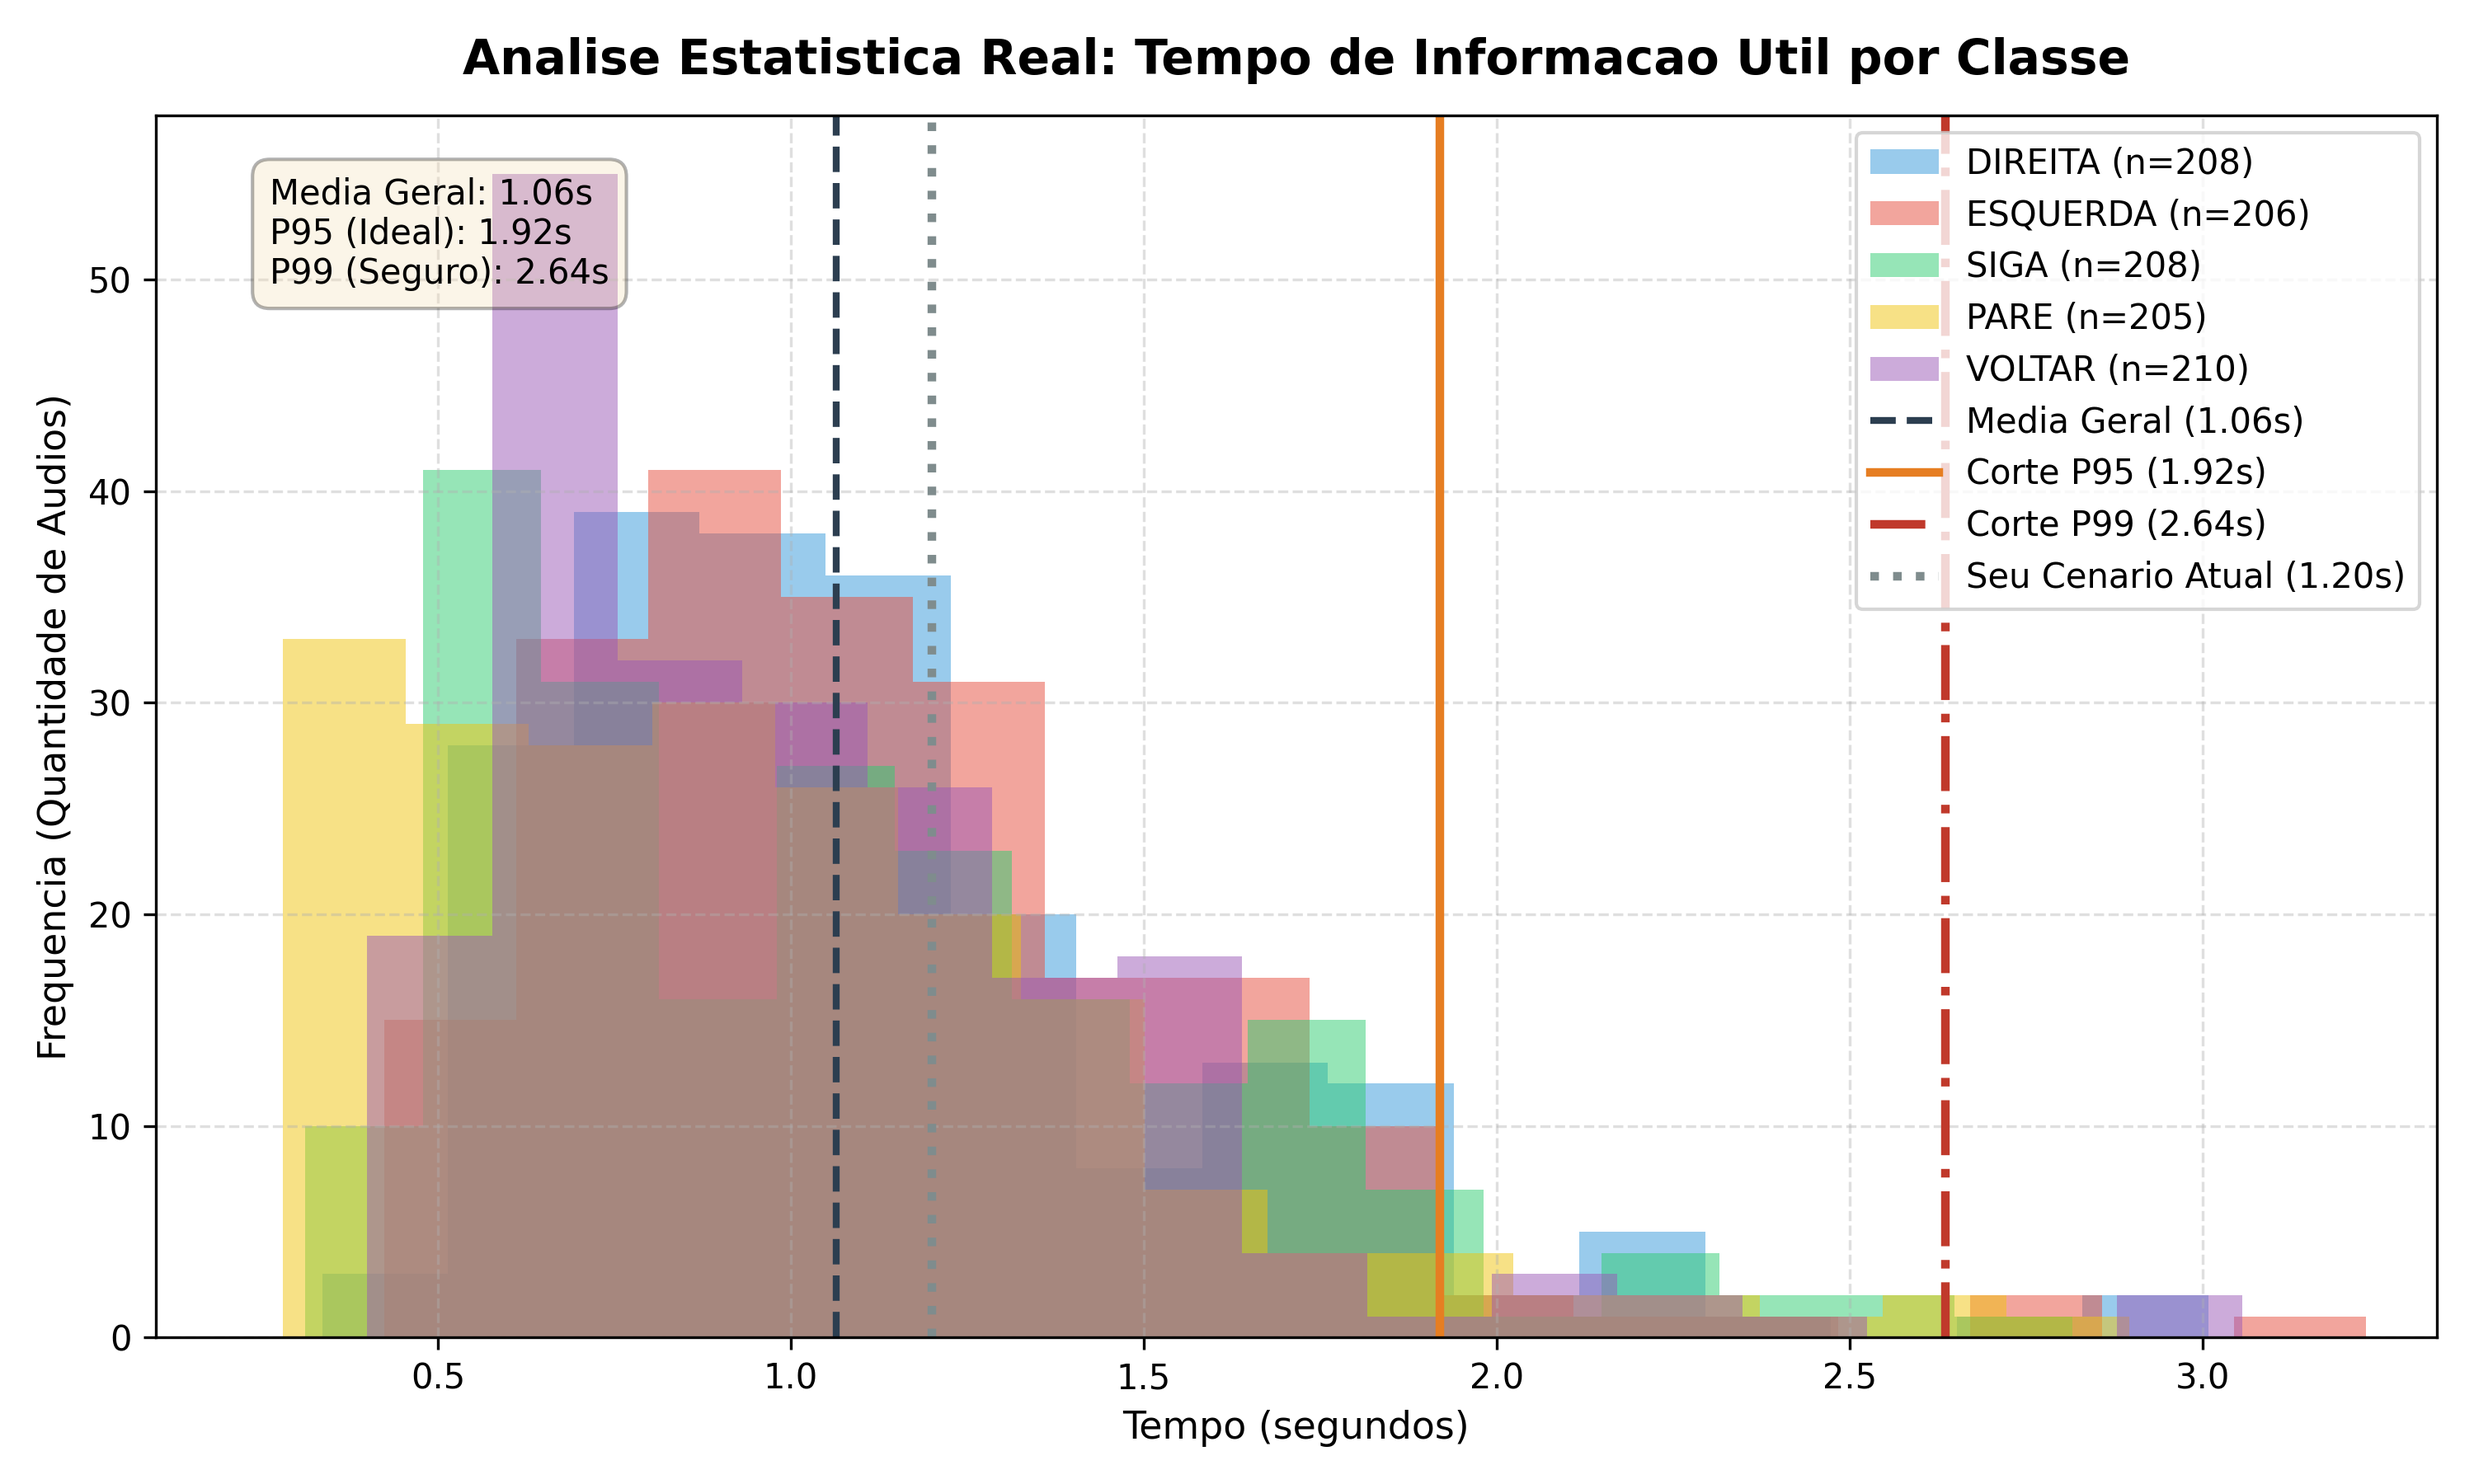
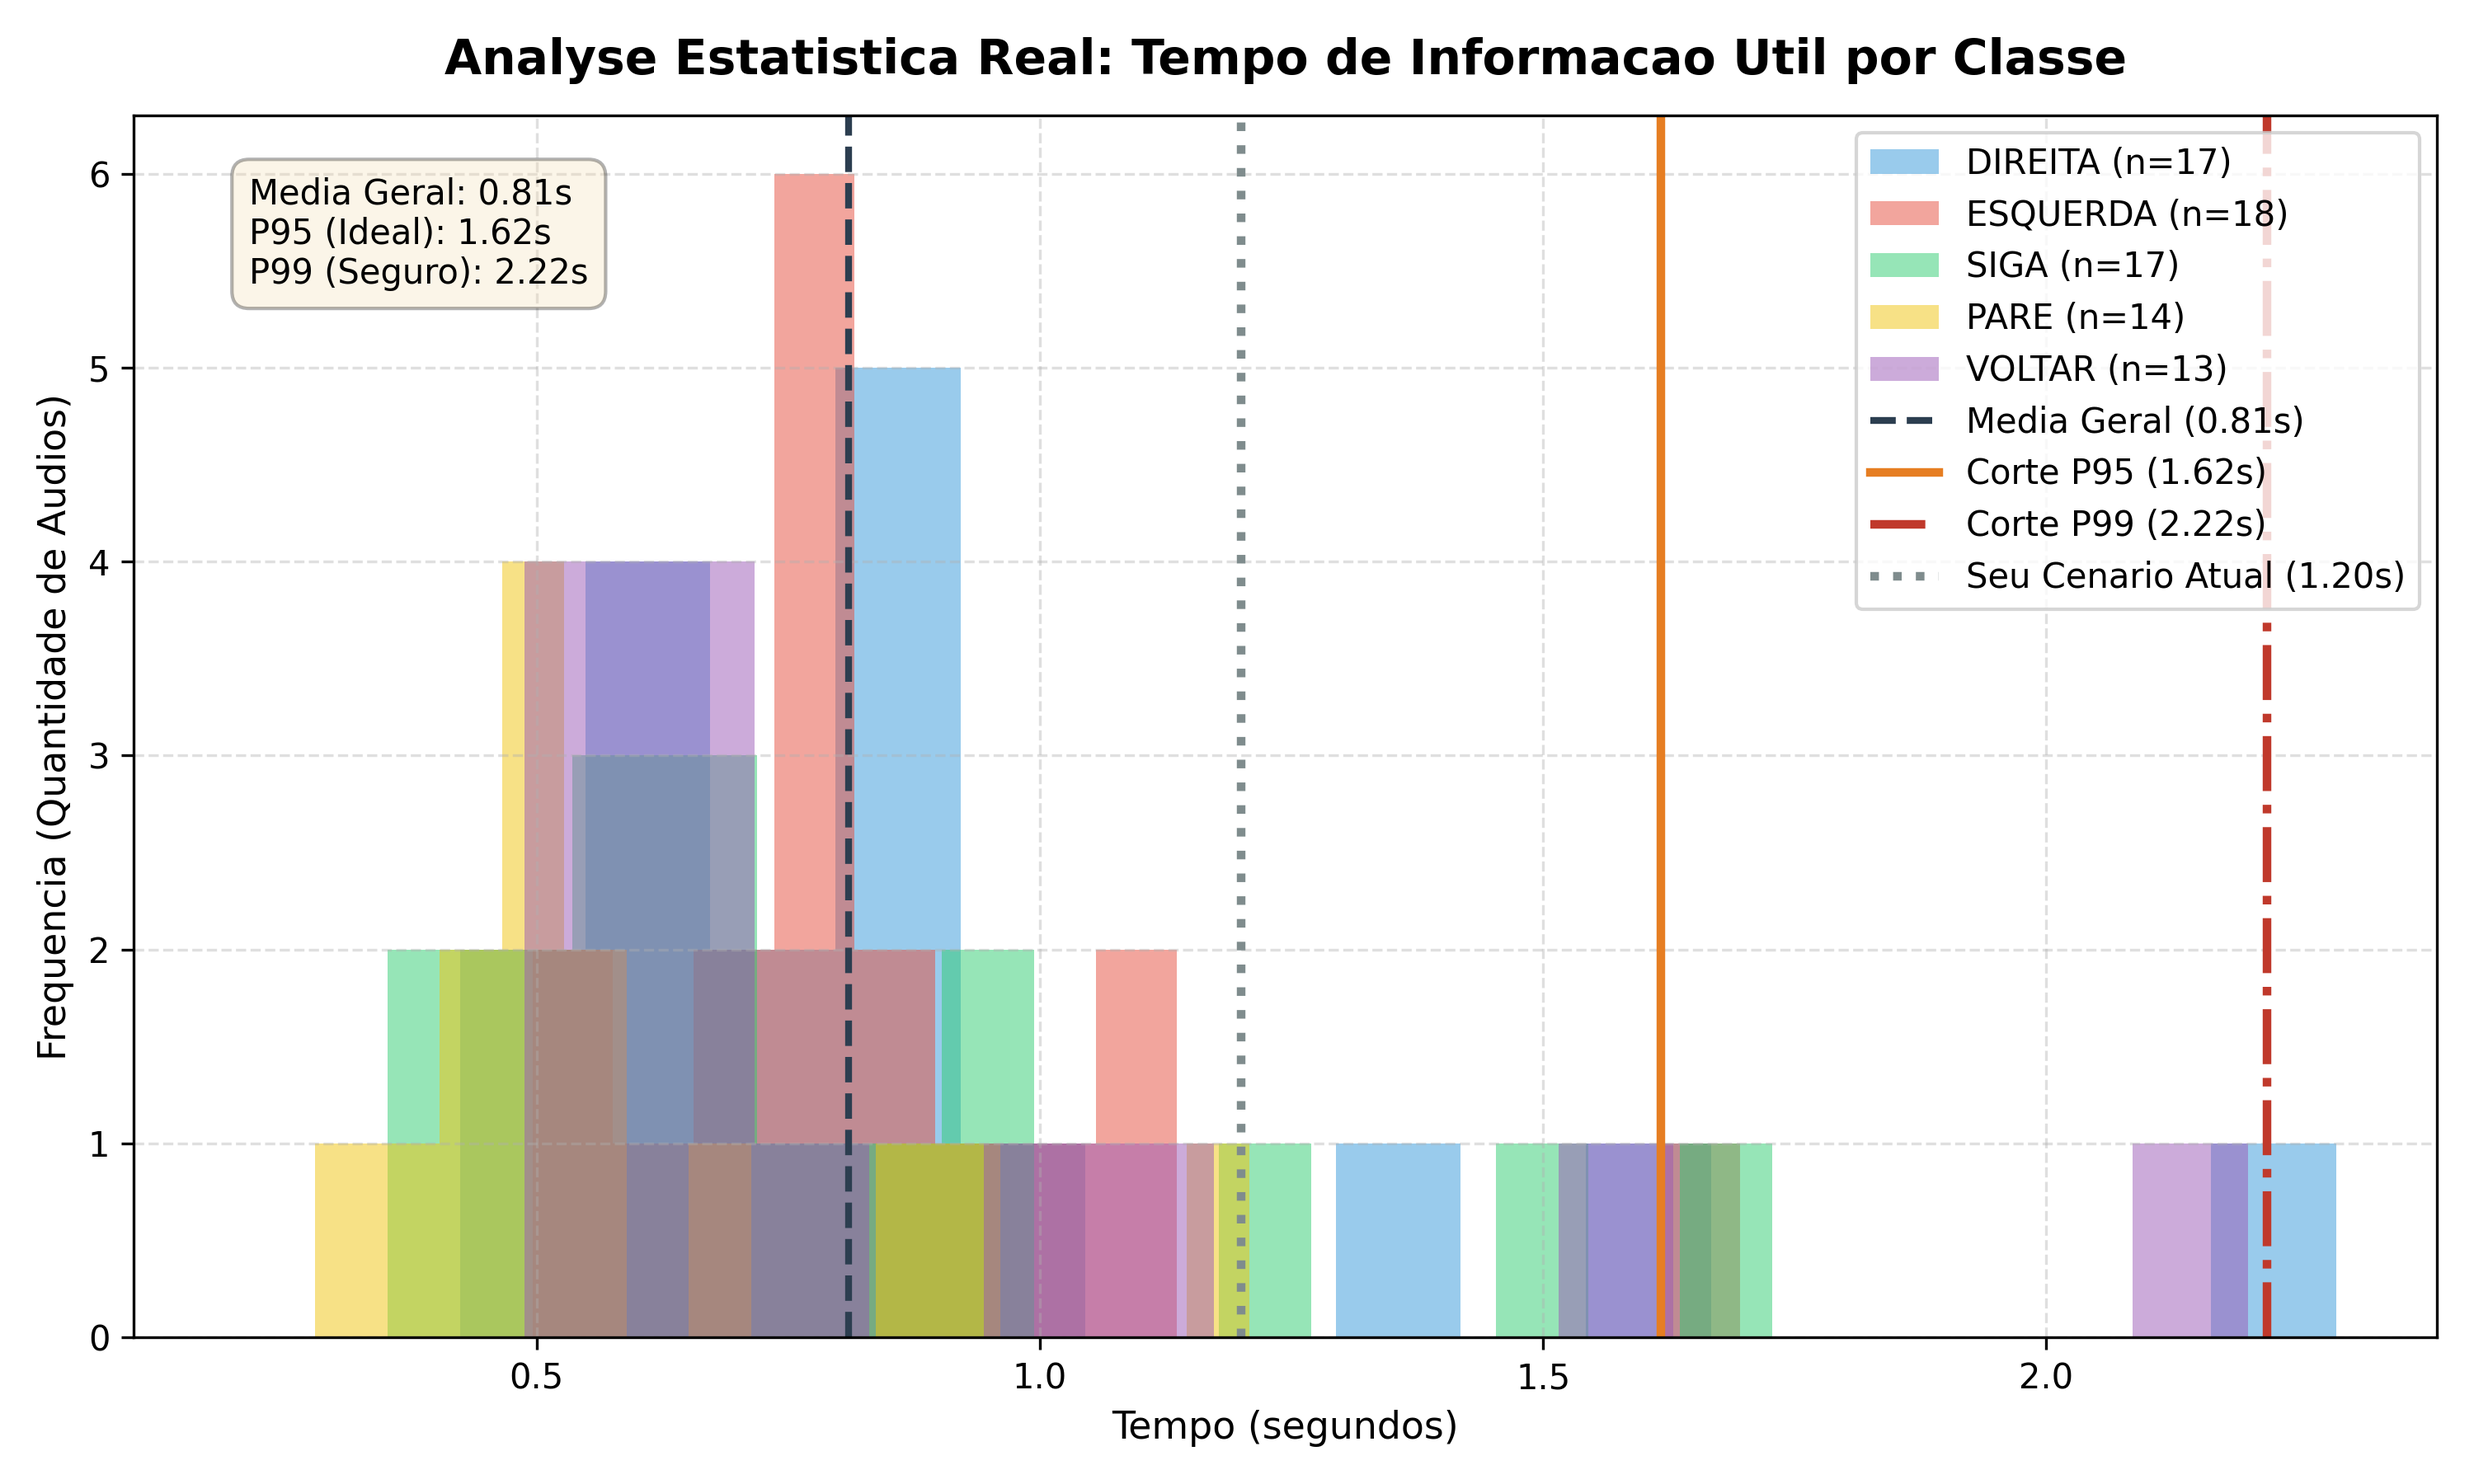
alterando codigo

diff --git a/src/00 limites de audio.py b/src/00 limites de audio.py
@@ -1,14 +1,36 @@
-
 import os
+import wave
 import numpy as np
-import librosa
 import matplotlib.pyplot as plt
 
 BASE_DIR = r"C:\Users\jefte\projetos em python\ufc 2025 a 2026\aprendizado de maquina\projeto de reconhecimento de voz AMRP"
 ORIGEM = os.path.join(BASE_DIR, "dataset_vozes_old")
 CLASSES = ["direita", "esquerda", "siga", "pare", "voltar"]
-EXTENSOES = (".wav", ".flac", ".ogg", ".m4a", ".mp3")
 SAMPLE_RATE = 16000
+
+def carregar_wav_manual(file_path):
+    with wave.open(file_path, 'rb') as wav_file:
+        n_channels = wav_file.getnchannels()
+        sampwidth = wav_file.getsampwidth()
+        sr = wav_file.getframerate()
+        n_frames = wav_file.getnframes()
+        raw_data = wav_file.readframes(n_frames)
+        
+        if sampwidth == 2:
+            audio_data = np.frombuffer(raw_data, dtype=np.int16).astype(np.float32) / 32768.0
+        elif sampwidth == 1:
+            audio_data = (np.frombuffer(raw_data, dtype=np.uint8).astype(np.float32) - 128.0) / 128.0
+        else:
+            raise ValueError("Suporta apenas arquivos WAV de 8-bit ou 16-bit PCM.")
+            
+        if n_channels > 1:
+            audio_data = audio_data.reshape(-1, n_channels).mean(axis=1)
+            
+        if sr != SAMPLE_RATE:
+            num_provisorio = int(len(audio_data) * SAMPLE_RATE / sr)
+            audio_data = np.interp(np.linspace(0, len(audio_data), num_provisorio), np.arange(len(audio_data)), audio_data)
+            
+        return audio_data
 
 def calcular_duracao_util_rms(audio, sr, frame_length=256, hop_length=128, threshold_db=-35):
     if len(audio) == 0:
@@ -47,32 +69,41 @@ def calcular_duracao_util_rms(audio, sr, frame_length=256, hop_length=128, thres
 duracoes_por_classe = {c: [] for c in CLASSES}
 todas_duracoes = []
 
-for raiz, diretorios, arquivos in os.walk(ORIGEM):
-    for arquivo in arquivos:
-        if arquivo.lower().endswith(EXTENSOES):
-            caminho_completo = os.path.join(raiz, arquivo)
-            nome_classe = None
+if not os.path.isdir(ORIGEM):
+    print(f"Diretorio raiz nao encontrado: {ORIGEM}")
+    exit()
+
+try:
+    for entrada_aluno in os.scandir(ORIGEM):
+        if entrada_aluno.is_dir():
+            caminho_aluno = entrada_aluno.path
             
-            for c in CLASSES:
-                if c in caminho_completo.lower() or c in arquivo.lower():
-                    nome_classe = c
-                    break
-                    
-            if nome_classe is None:
-                continue
+            for nome_classe in CLASSES:
+                caminho_classe = os.path.join(caminho_aluno, nome_classe)
                 
-            try:
-                audio, sr = librosa.load(caminho_completo, sr=SAMPLE_RATE)
-                
-                duracao_u = calcular_duracao_util_rms(audio, sr)
-                if duracao_u > 0:
-                    duracoes_por_classe[nome_classe].append(duracao_u)
-                    todas_duracoes.append(duracao_u)
-            except Exception as e:
-                print(f"Erro ao processar {arquivo}: {e}")
+                if os.path.isdir(caminho_classe):
+                    try:
+                        for entrada_arquivo in os.scandir(caminho_classe):
+                            if entrada_arquivo.is_file() and entrada_arquivo.name.lower().endswith(".wav"):
+                                caminho_completo = entrada_arquivo.path
+                                
+                                try:
+                                    audio = carregar_wav_manual(caminho_completo)
+                                    duracao_u = calcular_duracao_util_rms(audio, SAMPLE_RATE)
+                                    
+                                    if duracao_u > 0:
+                                        duracoes_por_classe[nome_classe].append(duracao_u)
+                                        todas_duracoes.append(duracao_u)
+                                except Exception as e:
+                                    continue
+                    except Exception as e:
+                        continue
+except Exception as e:
+    print(f"Erro ao acessar o diretorio raiz: {e}")
+    exit()
 
 if len(todas_duracoes) == 0:
-    print("Nenhum audio foi processado.")
+    print("Nenhum audio foi processado. Verifique a estrutura das pastas.")
     exit()
 
 media_geral = np.mean(todas_duracoes)
@@ -89,8 +120,8 @@ print(f"Percentil 99 (Seguranca maxima): {percentil_99:.2f}s")
 print("="*45 + "\n")
 
 plt.figure(figsize=(10, 6))
-
 cores = ['#3498db', '#e74c3c', '#2ecc71', '#f1c40f', '#9b59b6']
+
 for idx, c in enumerate(CLASSES):
     if len(duracoes_por_classe[c]) > 0:
         plt.hist(duracoes_por_classe[c], bins=15, alpha=0.5, 
@@ -105,7 +136,7 @@ plt.axvline(percentil_99, color='#c0392b', linestyle='-.', linewidth=2.5,
 plt.axvline(1.20, color='#7f8c8d', linestyle=':', linewidth=2.5, 
             label='Seu Cenario Atual (1.20s)')
 
-plt.title("Analise Estatistica Real: Tempo de Informacao Util por Classe", fontsize=14, fontweight='bold', pad=12)
+plt.title("Analyse Estatistica Real: Tempo de Informacao Util por Classe", fontsize=14, fontweight='bold', pad=12)
 plt.xlabel("Tempo (segundos)", fontsize=11)
 plt.ylabel("Frequencia (Quantidade de Audios)", fontsize=11)
 plt.grid(True, linestyle='--', alpha=0.4)
@@ -117,6 +148,5 @@ plt.gca().text(0.05, 0.95, texto_resumo, transform=plt.gca().transAxes, fontsize
 
 plt.legend(loc='upper right', frameon=True, fontsize=10)
 plt.tight_layout()
-
 plt.savefig("analise_limites_audio.png", dpi=300)
 plt.show()

diff --git a/src/00 test com modelos 1d.py b/src/00 test com modelos 1d.py
@@ -57,7 +57,7 @@ with open("labels_1s5_atencao.json", "w") as f:
     json.dump(label_map, f, indent=4)
 
 # =====================================================================
-# 3. PROCESSAMENTO MATEMÁTICO DE ÁUDIO MANUAL (SEM LIBROSA)
+# 3. PROCESSAMENTO MATEMÁTICO DE ÁUDIO MANUAL 
 # =====================================================================
 def carregar_wav_manual(file_path):
     """Lê arquivos WAV raw usando a biblioteca nativa wave e converte para float"""
